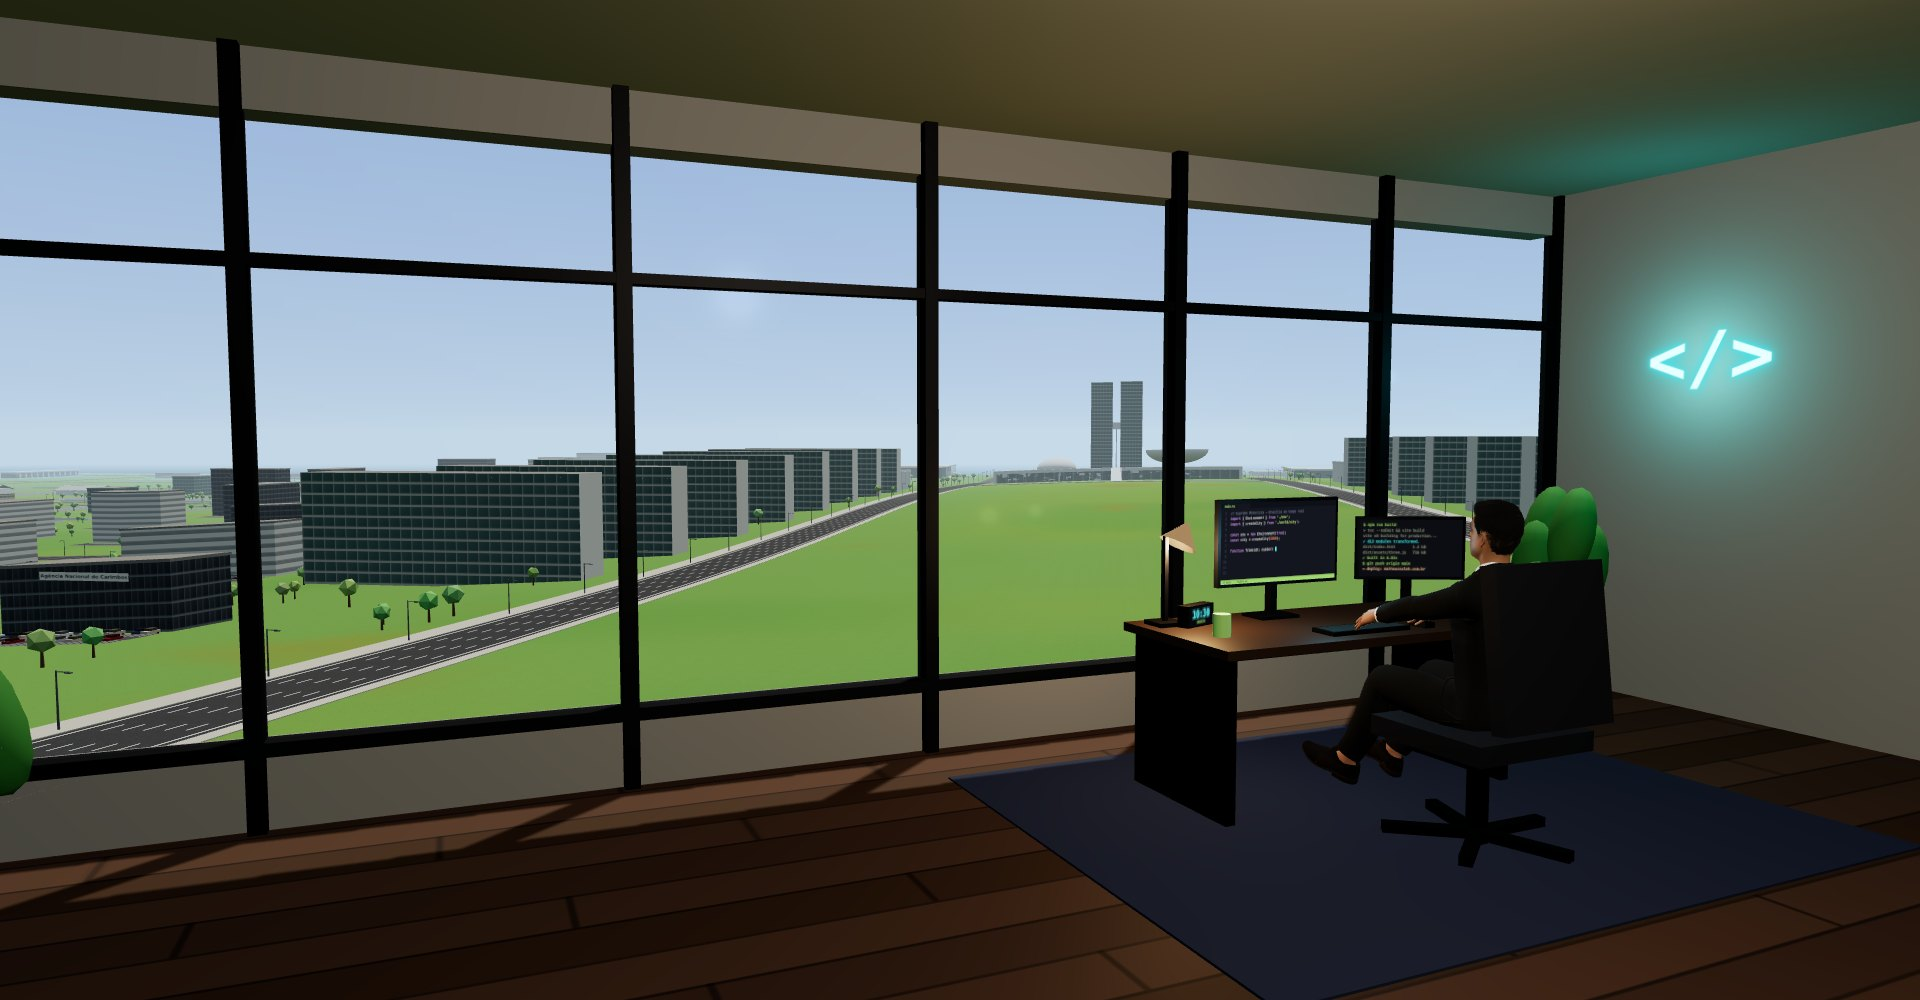
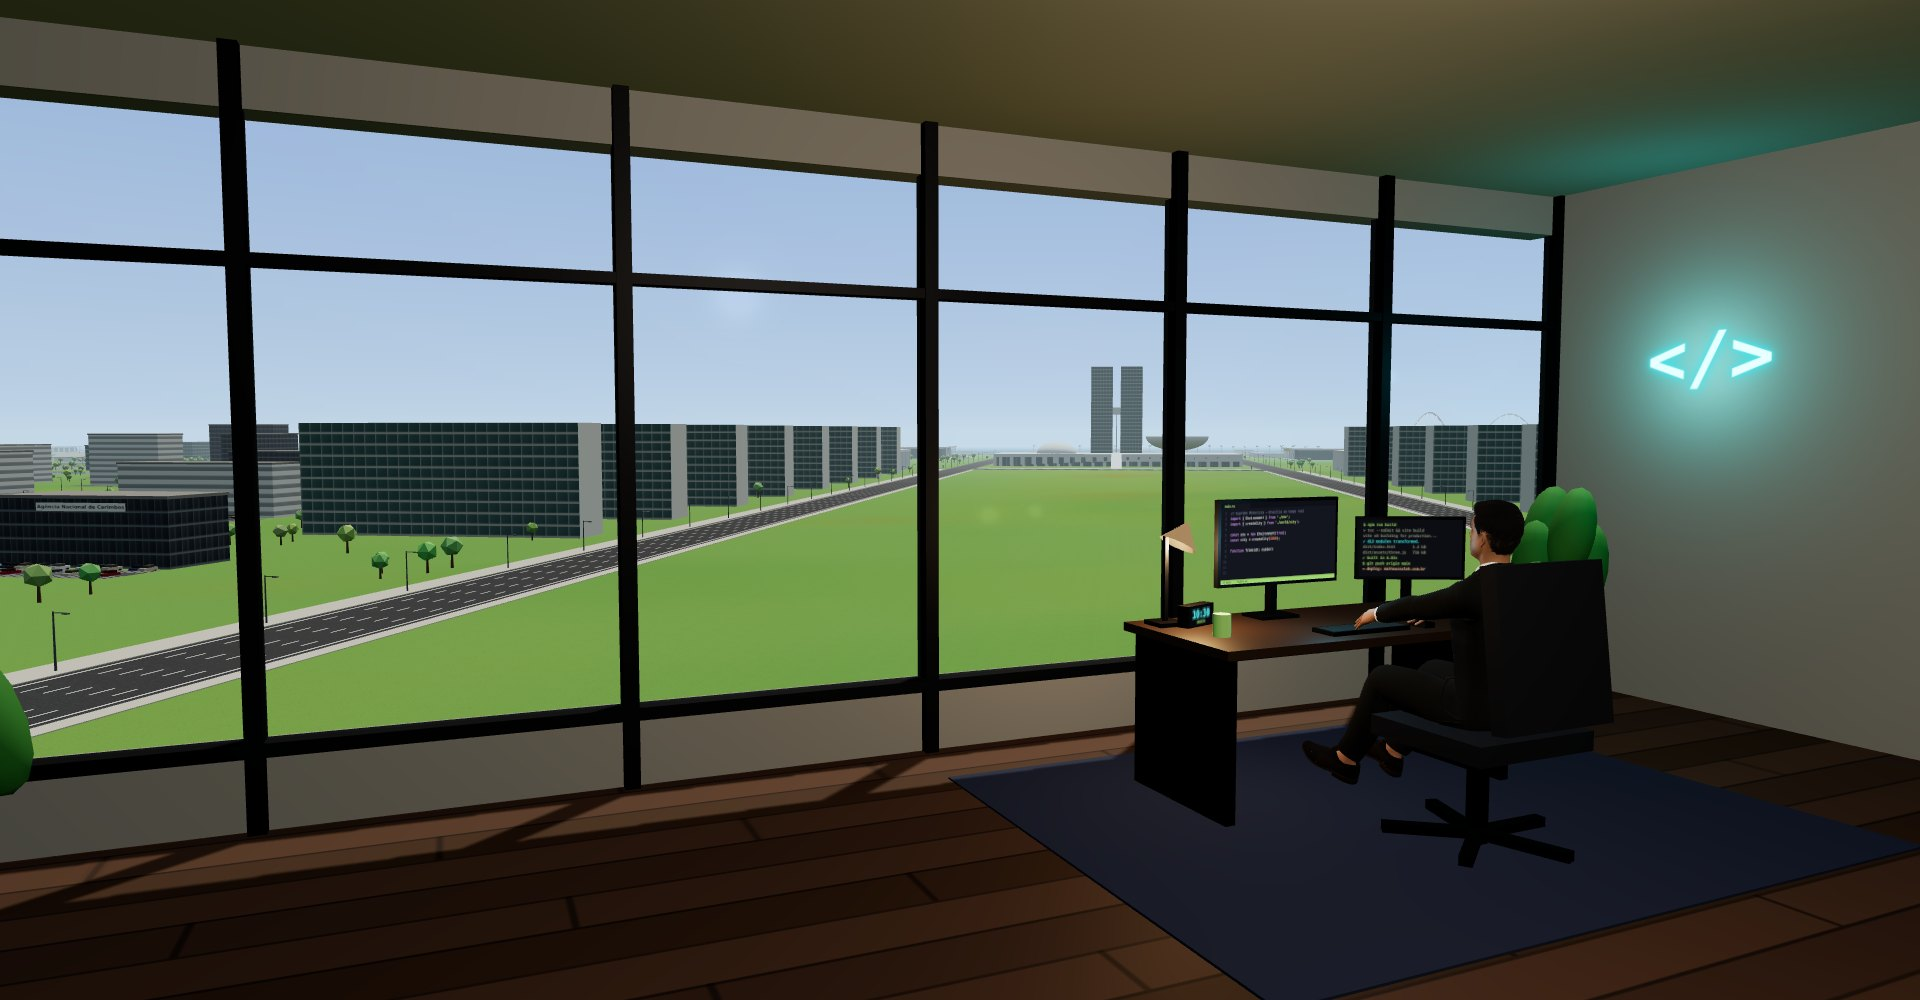
feat: cena ao vivo também no celular e no tablet
- No celular e no tablet a cena vira um quadro no topo do hero (enquadramento
  retrato); no desktop continua como fundo
- Imagens estáticas em paisagem e retrato com art direction (<picture>)
- A cena carrega em qualquer tamanho de tela, inclusive no Safari; fica só a
  imagem com "reduzir movimento", economia de dados, conexão 2G/3G, pouca
  memória ou sem WebGL2
- Tela de carregamento: estimativa da cidade ajustada (~2,5 s) e "Toque para
  entrar" em telas de toque

Changed region(s): [[0.0, 0.403, 0.8125, 0.775], [0.5625, 0.341, 0.5938, 0.403]]

diff --git a/src/components/hero/live-scene.tsx b/src/components/hero/live-scene.tsx
@@ -1,9 +1,12 @@
 "use client";
 
-import Image from "next/image";
+import { getImageProps, type StaticImageData } from "next/image";
 import { useEffect, useRef, useState } from "react";
+import diaRetrato from "@/assets/hero/vitrine-dia-retrato.jpg";
 import dia from "@/assets/hero/vitrine-dia.jpg";
+import entardecerRetrato from "@/assets/hero/vitrine-entardecer-retrato.jpg";
 import entardecer from "@/assets/hero/vitrine-entardecer.jpg";
+import noiteRetrato from "@/assets/hero/vitrine-noite-retrato.jpg";
 import noite from "@/assets/hero/vitrine-noite.jpg";
 import type { Content } from "@/content/types";
 import { gameOrigin, vitrineUrl } from "@/content/supremo-motorista";
@@ -11,15 +14,17 @@ import type { DayPhase } from "@/lib/day-phase";
 import { cx } from "@/lib/cx";
 import { useGame } from "../game-provider";
 
-/** Imagem estática (mesmo enquadramento da cena ao vivo) para cada fase do dia do visitante. */
-const POSTERS: Record<DayPhase, typeof dia> = {
-  madrugada: noite,
-  amanhecer: entardecer,
-  manha: dia,
-  tarde: dia,
-  entardecer,
-  noite,
-};
+/**
+ * Imagens estáticas (mesmos enquadramentos da cena ao vivo) para cada fase do dia do visitante: paisagem para o
+ * fundo do desktop e retrato para o quadro do celular.
+ */
+type Poster = { landscape: StaticImageData; portrait: StaticImageData };
+const DAY: Poster = { landscape: dia, portrait: diaRetrato };
+const DUSK: Poster = { landscape: entardecer, portrait: entardecerRetrato };
+const NIGHT: Poster = { landscape: noite, portrait: noiteRetrato };
+const POSTERS: Record<DayPhase, Poster> = { madrugada: NIGHT, amanhecer: DUSK, manha: DAY, tarde: DAY, entardecer: DUSK, noite: NIGHT };
+/** Onde vale o enquadramento paisagem (o mesmo limite do layout e da câmera da cena). */
+const LANDSCAPE_MEDIA = "(min-width: 1024px), (orientation: landscape)";
 
 /** Avisa a tela de carregamento que a imagem do topo chegou (evento + marca, caso ela ainda não esteja ouvindo). */
 function announcePoster() {
@@ -27,26 +32,27 @@ function announcePoster() {
   window.dispatchEvent(new Event("portfolio:poster-ready"));
 }
 
-type Nav = Navigator & { deviceMemory?: number; connection?: { saveData?: boolean } };
+type Nav = Navigator & { deviceMemory?: number; connection?: { saveData?: boolean; effectiveType?: string } };
 
-/** Só carrega a cena 3D onde ela roda bem e não pesa: tela larga, WebGL2, sem economia de dados nem "reduzir movimento". */
+/**
+ * Só carrega a cena 3D onde ela não pesa: WebGL2, sem economia de dados, sem conexão lenta (o personagem tem
+ * ~6 MB), sem aparelho com pouca memória e sem "reduzir movimento". Vale para celular e desktop.
+ */
 export function canRunLive(): boolean {
   const nav = navigator as Nav;
-  if (!window.matchMedia("(min-width: 1024px)").matches) return false;
   if (window.matchMedia("(prefers-reduced-motion: reduce)").matches) return false;
   if (nav.connection?.saveData) return false;
+  if (nav.connection?.effectiveType && /(^|-)2g$|^3g$/.test(nav.connection.effectiveType)) return false;
   if (nav.deviceMemory !== undefined && nav.deviceMemory < 4) return false;
-  // O Safari ainda não roda iframes de outro site em processo separado: a montagem da cidade (alguns segundos)
-  // travaria esta página. Lá fica a imagem estática.
-  if (/^((?!chrome|chromium|android|crios|fxios|edg).)*safari/i.test(nav.userAgent)) return false;
   return !!document.createElement("canvas").getContext("webgl2");
 }
 
 /**
- * Fundo do Spawn: o escritório do Supremo Motorista com a Esplanada pela janela. Mostra na hora a imagem
- * estática da fase do dia e, depois que a página carrega, embute a cena ao vivo (hora e clima reais de
- * Brasília), que entra por cima com um fade quando o primeiro quadro fica pronto. A cena vem do domínio do
- * jogo (outro processo do navegador): a montagem da cidade, de alguns segundos, não trava esta página.
+ * O escritório do Supremo Motorista com a Esplanada pela janela: fundo do Spawn no desktop e quadro no topo no
+ * celular (a cena escolhe o enquadramento pela proporção). Mostra na hora a imagem estática da fase do dia e
+ * embute a cena ao vivo (hora e clima reais de Brasília), que entra com um fade quando o primeiro quadro fica
+ * pronto. A cena vem do domínio do jogo (outro processo, onde o navegador isola sites) e é montada em etapas
+ * curtas: não trava esta página.
  */
 export function LiveScene({ scene, href }: { scene: Content["hero"]["game"]["scene"]; href: string }) {
   const { phase } = useGame();
@@ -105,24 +111,19 @@ export function LiveScene({ scene, href }: { scene: Content["hero"]["game"]["sce
   }, [live]);
 
   return (
-    <div ref={box} className="absolute inset-0">
+    <div
+      ref={box}
+      className="relative h-[min(100vw,62vh)] w-full shrink-0 overflow-hidden landscape:h-[min(56vw,85vh)] lg:absolute lg:inset-0 lg:h-auto lg:landscape:h-auto"
+    >
       <div aria-hidden className="pointer-events-none absolute inset-0">
         {phase && (
-          <Image
-            src={POSTERS[phase]}
-            alt=""
-            fill
-            sizes="100vw"
-            loading="eager"
-            fetchPriority="high"
+          <PosterPicture
+            poster={POSTERS[phase]}
+            loaded={posterLoaded}
             onLoad={() => {
               setPosterLoaded(true);
               announcePoster();
             }}
-            className={cx(
-              "object-cover object-[72%_center] transition-opacity duration-700",
-              posterLoaded ? "opacity-100" : "opacity-0",
-            )}
           />
         )}
         {mountFrame && (
@@ -138,22 +139,44 @@ export function LiveScene({ scene, href }: { scene: Content["hero"]["game"]["sce
             )}
           />
         )}
-        {/* Legibilidade: escurece à esquerda (texto) e embaixo; no celular, por igual. */}
-        <div className="absolute inset-0 max-lg:bg-surface-container-lowest/70 lg:bg-linear-to-r lg:from-surface-container-lowest/90 lg:via-surface-container-lowest/45 lg:via-40% lg:to-transparent lg:to-60%" />
-        <div className="absolute inset-x-0 bottom-0 h-40 bg-linear-to-t from-surface-container-lowest/80 to-transparent" />
+        {/* Desktop: escurece à esquerda (texto) e embaixo. Celular: o quadro se funde no fundo embaixo. */}
+        <div className="absolute inset-0 hidden bg-linear-to-r from-surface-container-lowest/90 via-surface-container-lowest/45 via-40% to-transparent to-60% lg:block" />
+        <div className="absolute inset-x-0 bottom-0 h-24 bg-linear-to-t from-surface-container-lowest to-transparent lg:h-40 lg:from-surface-container-lowest/80" />
       </div>
 
       <a
         href={href}
-        className="absolute right-4 bottom-16 z-10 hidden items-center gap-space-xs border-2 border-surface-container-lowest bg-surface-container-lowest/85 px-space-sm py-1.5 text-label-sm tracking-widest text-on-surface uppercase backdrop-blur-sm voxel-slot-inset hover:text-primary sm:flex lg:right-8"
+        className="absolute bottom-4 left-4 z-10 flex max-w-[calc(100%-2rem)] items-center gap-space-xs border-2 border-surface-container-lowest bg-surface-container-lowest/85 px-space-sm py-1.5 text-label-sm tracking-widest text-on-surface uppercase backdrop-blur-sm voxel-slot-inset hover:text-primary lg:right-8 lg:bottom-16 lg:left-auto"
       >
-        <span aria-hidden className="relative flex size-2">
+        <span aria-hidden className="relative flex size-2 shrink-0">
           {live && <span className="absolute inline-flex size-full animate-ping bg-error opacity-75" />}
           <span className={cx("relative inline-flex size-2", live ? "bg-error" : "bg-outline")} />
         </span>
-        <span className="font-bold">{live ? scene.live : scene.still}</span>
-        <span className="text-outline">· {scene.caption}</span>
+        <span className="shrink-0 font-bold">{live ? scene.live : scene.still}</span>
+        <span className="truncate text-outline">· {scene.caption}</span>
       </a>
     </div>
+  );
+}
+
+/** Imagem estática com "art direction": paisagem no desktop (ou celular deitado), retrato no celular em pé. */
+function PosterPicture({ poster, loaded, onLoad }: { poster: Poster; loaded: boolean; onLoad: () => void }) {
+  const common = { alt: "", fill: true, sizes: "100vw", loading: "eager", fetchPriority: "high" } as const;
+  const { srcSet: landscape } = getImageProps({ ...common, src: poster.landscape }).props;
+  const { srcSet: portrait, ...img } = getImageProps({ ...common, src: poster.portrait }).props;
+  return (
+    <picture>
+      <source media={LANDSCAPE_MEDIA} srcSet={landscape} />
+      <source srcSet={portrait} />
+      <img
+        {...img}
+        alt=""
+        onLoad={onLoad}
+        className={cx(
+          "object-cover transition-opacity duration-700 lg:object-[72%_center]",
+          loaded ? "opacity-100" : "opacity-0",
+        )}
+      />
+    </picture>
   );
 }

diff --git a/src/components/boot-screen.tsx b/src/components/boot-screen.tsx
@@ -21,8 +21,8 @@ const LIVE_CAP_MS = 9000;
 const HARD_CAP_MS = 11000;
 /** Depois de pronto, entra sozinho se o visitante não apertar nada. */
 const AUTO_ENTER_MS = 1800;
-/** A geração da cidade não informa progresso: a barra avança sozinha até ~90% em uns 6 s. */
-const CITY_EXPECTED_MS = 6000;
+/** A geração da cidade não informa progresso: a barra avança sozinha até ~90% em uns 2,5 s. */
+const CITY_EXPECTED_MS = 2500;
 
 /** A animação de segurança do CSS esconde a tela 14 s após abrir a página; hidratar depois disso = desistir dela. */
 const LATE_HYDRATION_MS = 13000;
@@ -237,7 +237,8 @@ export function BootScreen({ boot }: { boot: Content["boot"] }) {
         }}
         className="absolute top-4 right-4 z-10 border-2 border-surface-container-highest bg-surface-container px-space-sm py-1 text-label-sm font-bold tracking-widest text-outline uppercase voxel-btn-bevel hover:text-on-surface md:top-6 md:right-6"
       >
-        {boot.skip} · Esc
+        {boot.skip}
+        <span className="pointer-coarse:hidden"> · Esc</span>
       </button>
 
       <div className="relative z-10 mx-auto flex w-full max-w-xl flex-1 flex-col items-center justify-center gap-space-lg px-margin">
@@ -336,7 +337,8 @@ export function BootScreen({ boot }: { boot: Content["boot"] }) {
               ▶ {boot.start}
             </button>
             <span aria-hidden className="text-label-sm tracking-[0.3em] text-secondary-fixed uppercase motion-safe:animate-press-start">
-              {boot.pressKey}
+              <span className="pointer-coarse:hidden">{boot.pressKey}</span>
+              <span className="hidden pointer-coarse:inline">{boot.tapToEnter}</span>
             </span>
           </div>
         )}

diff --git a/src/content/types.ts b/src/content/types.ts
@@ -244,6 +244,8 @@ export type Content = {
     start: string;
     skip: string;
     pressKey: string;
+    /** No lugar de pressKey em telas de toque. */
+    tapToEnter: string;
     /** Etapa da cena 3D que passou do limite de espera e segue carregando atrás. */
     background: string;
     tipLabel: string;

diff --git a/src/content/pt.tsx b/src/content/pt.tsx
@@ -185,6 +185,7 @@ export function buildPt(stats: GithubStats): Content {
       start: "Entrar",
       skip: "Pular",
       pressKey: "Pressione qualquer tecla",
+      tapToEnter: "Toque para entrar",
       background: "continua em segundo plano",
       tipLabel: "Dica",
       tasks: {

diff --git a/src/content/en.tsx b/src/content/en.tsx
@@ -184,6 +184,7 @@ export function buildEn(stats: GithubStats): Content {
       start: "Enter",
       skip: "Skip",
       pressKey: "Press any key",
+      tapToEnter: "Tap to enter",
       background: "continues in the background",
       tipLabel: "Tip",
       tasks: {
